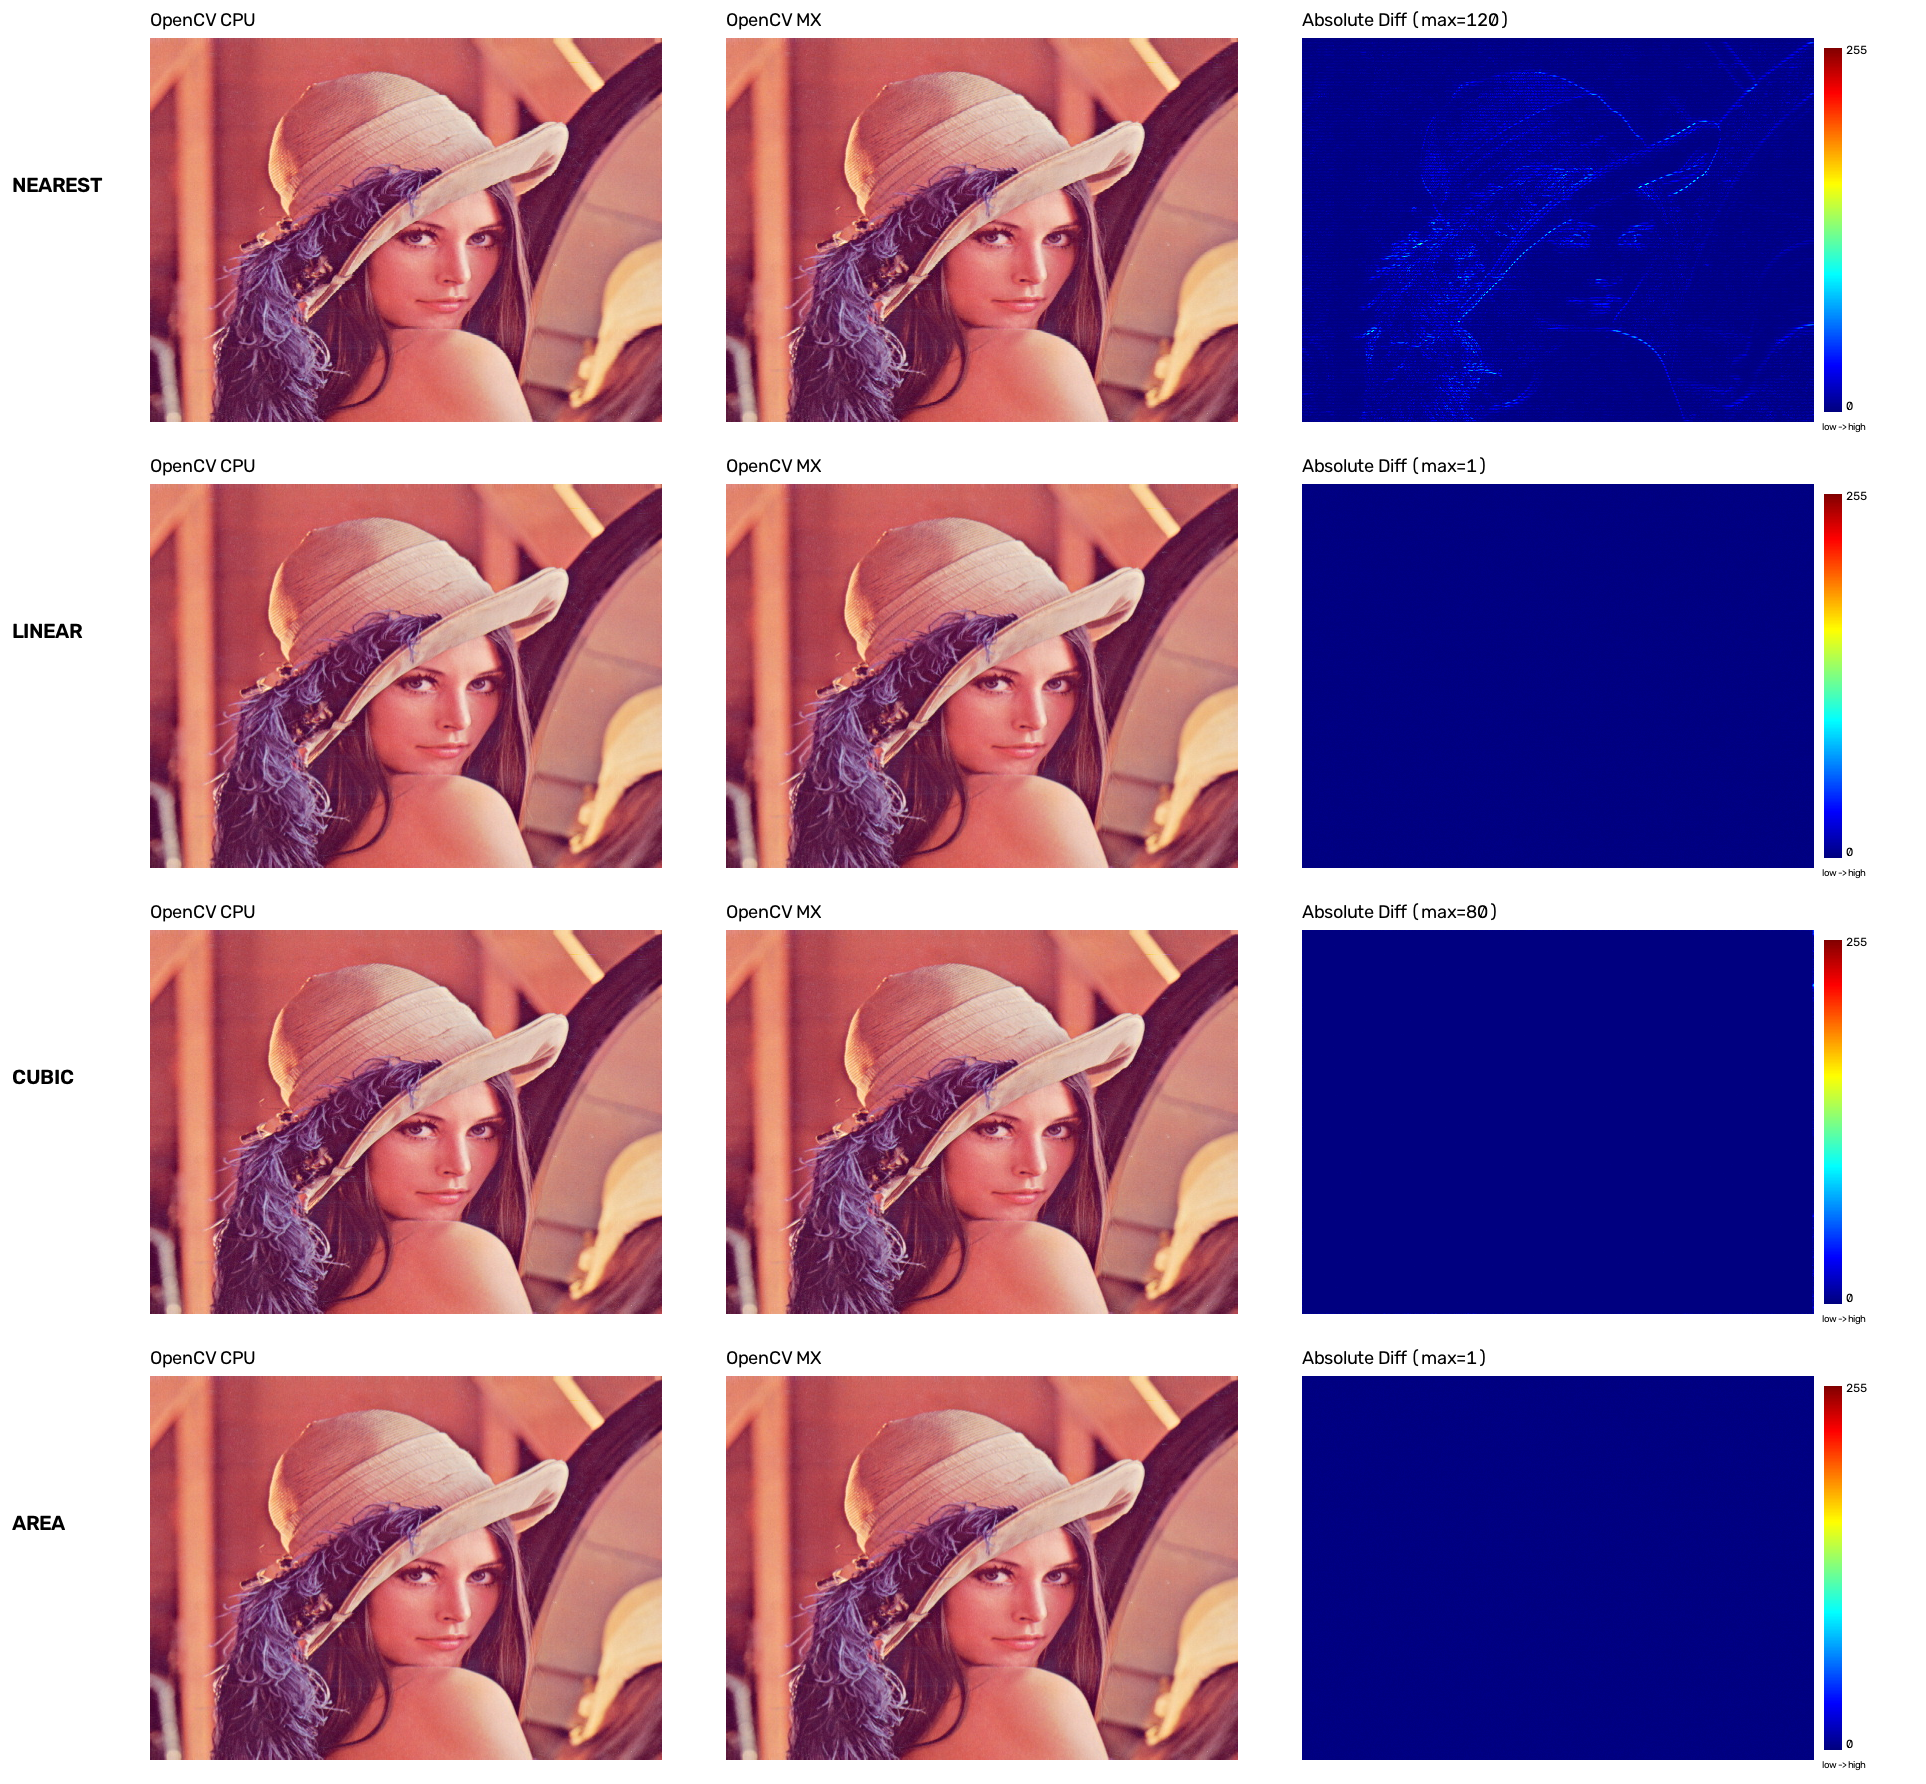
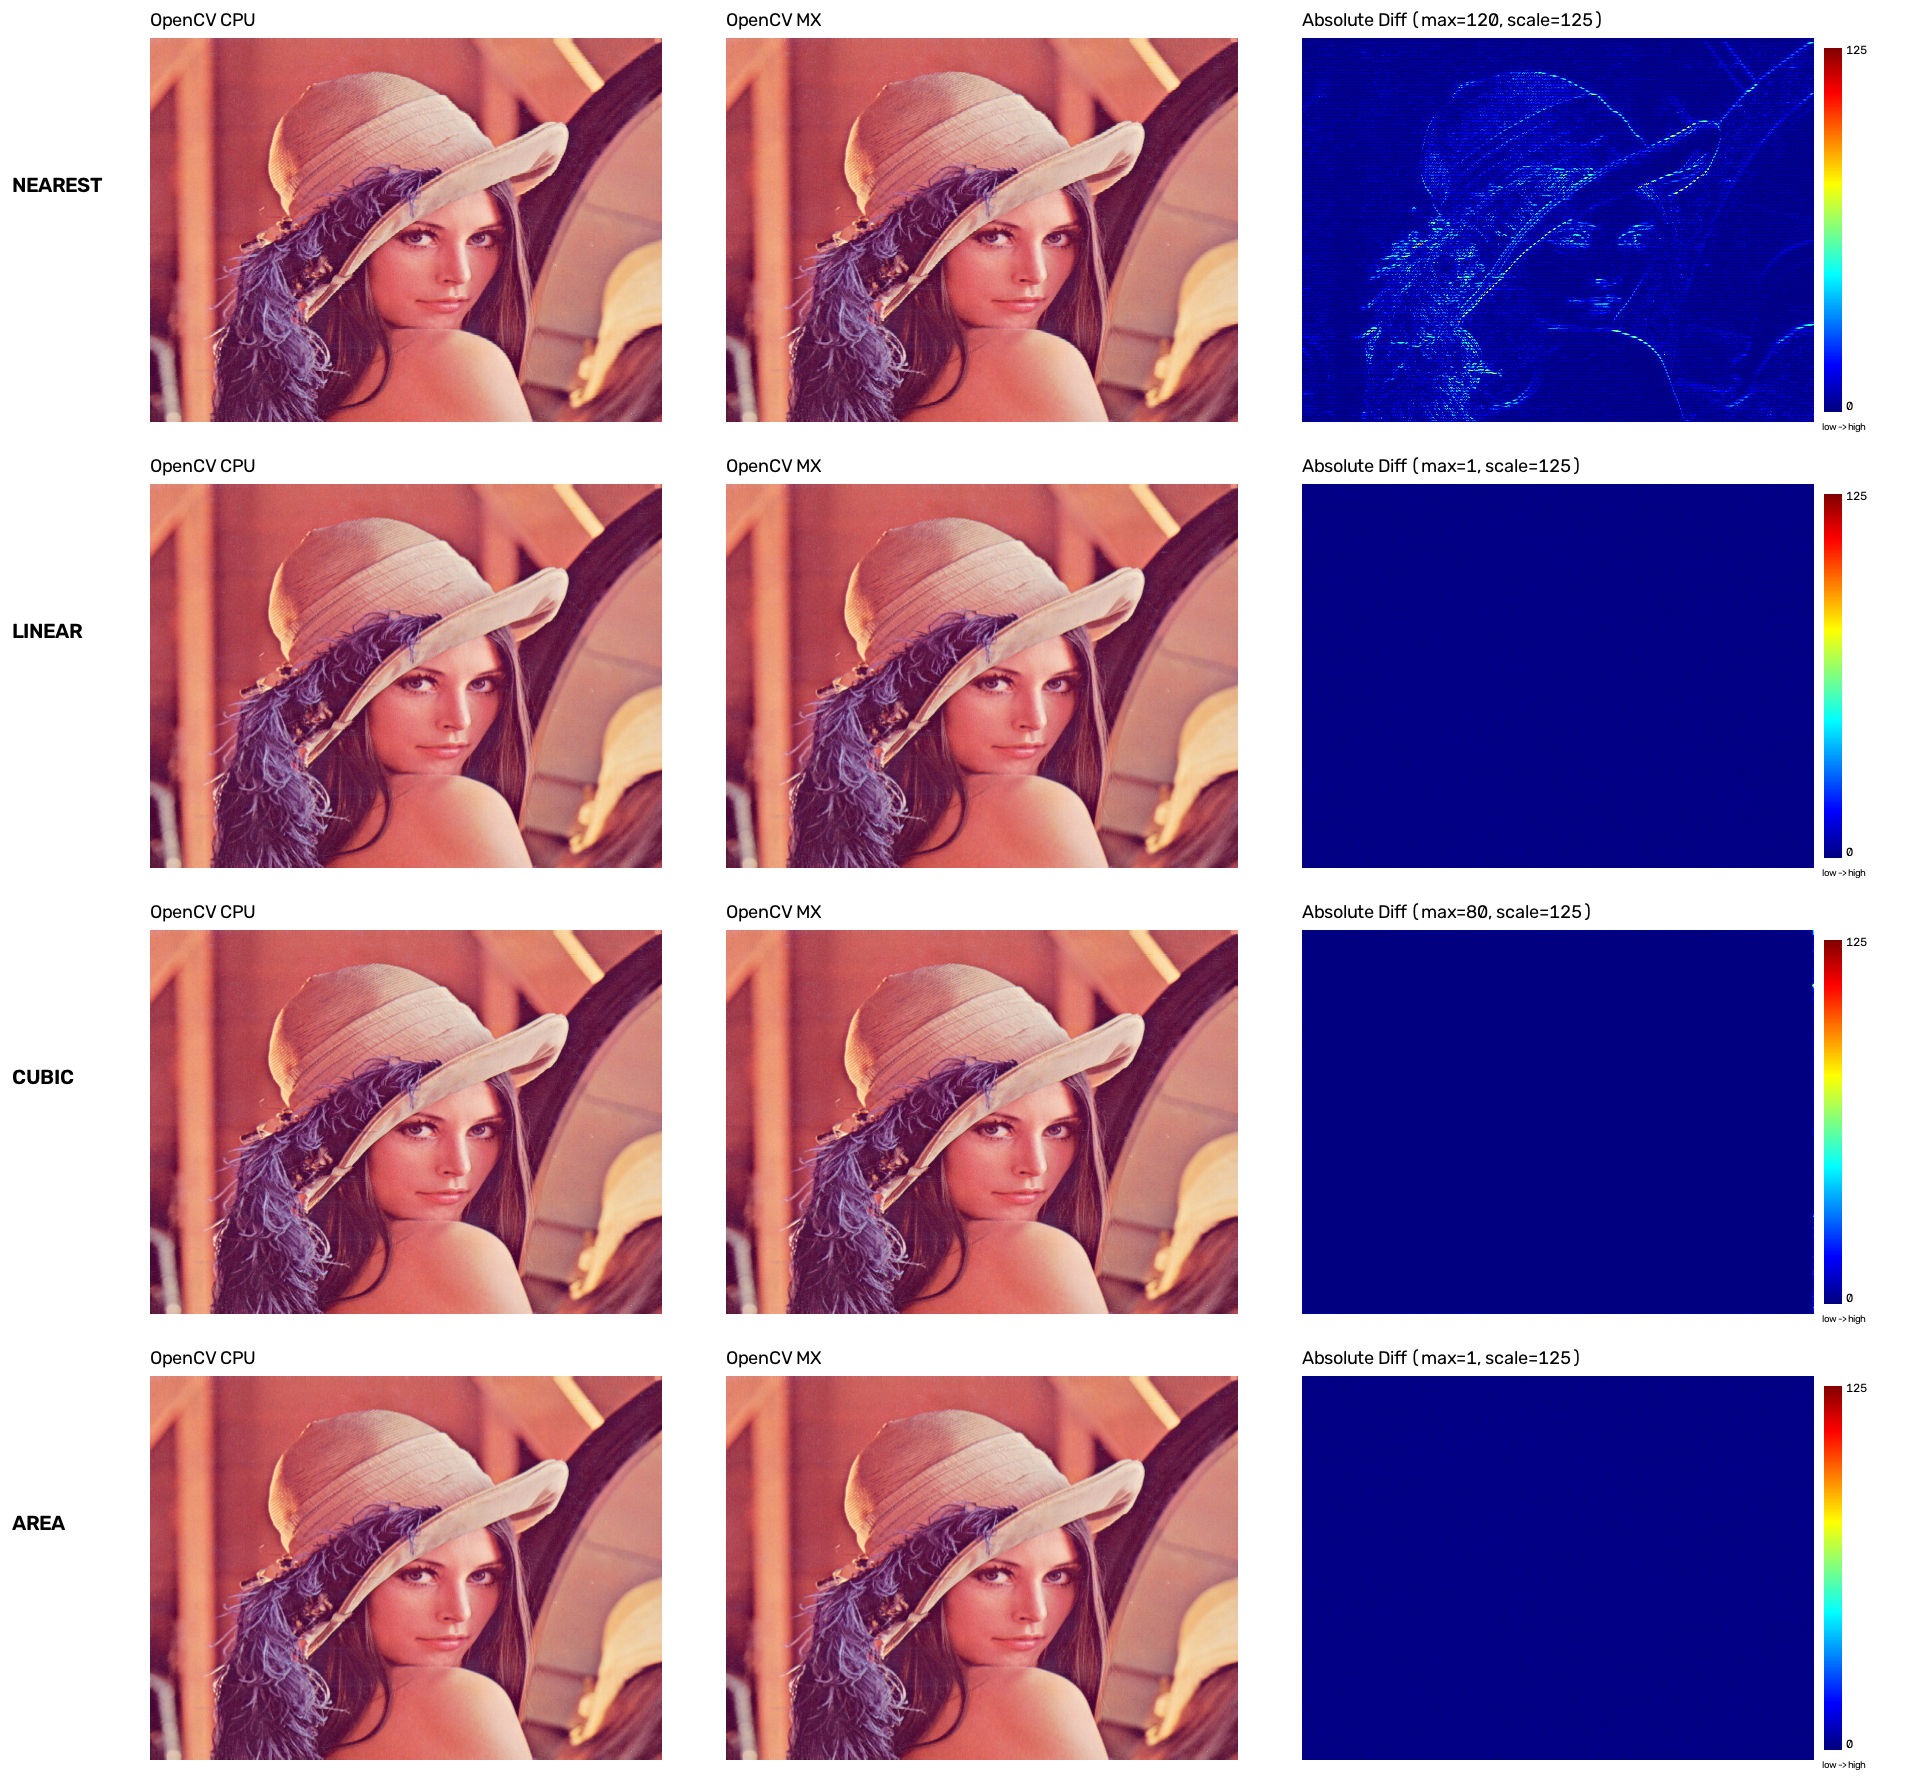
Use fixed 125 scale for Lena diff heatmap

Changed region(s): [[0.6854, 0.0, 0.9346, 0.2466]]

diff --git a/scripts/visualize_resize_comparison.py b/scripts/visualize_resize_comparison.py
@@ -90,13 +90,16 @@ if lena is not None:
         subprocess.run([str(ROOT / "build/mx_resize_example"), str(ROOT / "testdata/shared/lena.png"), str(mx_path), str(interpolation), "1", str(W), str(H)], check=True, stdout=subprocess.DEVNULL)
         mx = cv2.imread(str(mx_path), cv2.IMREAD_COLOR)
         diff = np.abs(cpu.astype(np.int16) - mx.astype(np.int16)).astype(np.uint8)
-        heat = cv2.applyColorMap(np.max(diff, axis=2), cv2.COLORMAP_JET)
+        # Lena comparison uses a fixed 0~125 scale; larger errors saturate red.
+        lena_heat_scale = 125
+        heat_values = np.minimum(np.max(diff, axis=2), lena_heat_scale).astype(np.uint8)
+        heat = cv2.applyColorMap((heat_values.astype(np.float32) * 255 / lena_heat_scale).astype(np.uint8), cv2.COLORMAP_JET)
         cv2.imwrite(str(lena_dir / f"diff_{name}.png"), heat)
-        lena_rows.append((name.upper(), cpu, mx, heat, int(diff.max())))
+        lena_rows.append((name.upper(), cpu, mx, heat, int(diff.max()), lena_heat_scale))
     canvas = np.full((len(lena_rows) * (H + 62), 150 + 3 * (W + 64) + 48, 3), 255, np.uint8)
-    for row, (name, cpu, mx, heat, maximum) in enumerate(lena_rows):
+    for row, (name, cpu, mx, heat, maximum, heat_scale) in enumerate(lena_rows):
         y = row * (H + 62); cv2.putText(canvas, name, (12, y + H // 2), cv2.FONT_HERSHEY_SIMPLEX, .72, (0,0,0), 2)
-        for col, (image, label) in enumerate(((cpu,"OpenCV CPU"),(mx,"OpenCV MX"),(heat,f"Absolute Diff (max={maximum})"))):
+        for col, (image, label) in enumerate(((cpu,"OpenCV CPU"),(mx,"OpenCV MX"),(heat,f"Absolute Diff (max={maximum}, scale=125)"))):
             x = 150 + col * (W + 64); canvas[y+38:y+38+H, x:x+W] = image
             cv2.putText(canvas, label, (x, y + 26), cv2.FONT_HERSHEY_SIMPLEX, .62, (0,0,0), 1)
             if col == 2:
@@ -105,7 +108,7 @@ if lena is not None:
                     value = int(255 * (H - 21 - by) / max(1, H - 21))
                     canvas[y + 38 + 10 + by, bar_x:bar_x + 18] = cv2.applyColorMap(
                         np.uint8([[value]]), cv2.COLORMAP_JET)[0, 0]
-                cv2.putText(canvas, "255", (bar_x + 22, y + 38 + 16), cv2.FONT_HERSHEY_SIMPLEX, .42, (0,0,0), 1)
+                cv2.putText(canvas, "125", (bar_x + 22, y + 38 + 16), cv2.FONT_HERSHEY_SIMPLEX, .42, (0,0,0), 1)
                 cv2.putText(canvas, "0", (bar_x + 22, y + 38 + H - 12), cv2.FONT_HERSHEY_SIMPLEX, .42, (0,0,0), 1)
                 cv2.putText(canvas, "low -> high", (bar_x - 2, y + 38 + H + 8), cv2.FONT_HERSHEY_SIMPLEX, .34, (0,0,0), 1)
     cv2.imwrite(str(OUT / "lena_comparison_grid.png"), canvas)
